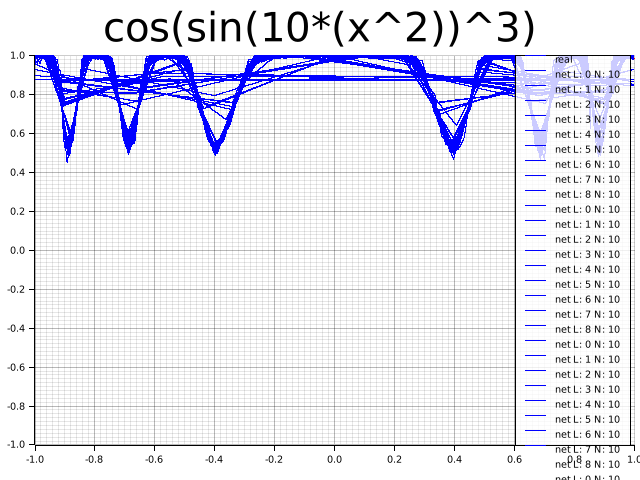
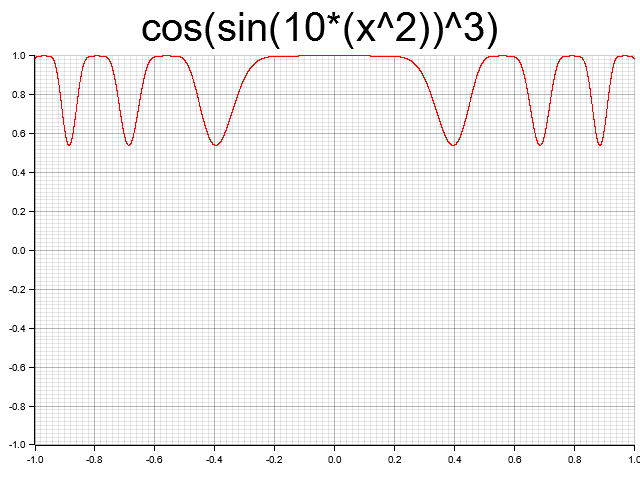
why does evo suck

diff --git a/deep_ai/src/normal_nets.rs b/deep_ai/src/normal_nets.rs
@@ -69,8 +69,16 @@ pub fn RunMNISTConvNet() {
 
 }
 
+#[test]
+pub fn mutate_test() {
+    let b = Tensor::of_slice(&[5., 5., 5., 5.]);
+    mutate_tensor(&b).print();
+}
+
 pub fn mutate_tensor(inp: &Tensor) -> Tensor {
-    inp.rand_like().multiply_scalar(0.2).f_add_scalar(0.9).unwrap()
+    let range = 0.02;
+    let sub = 1.0 - (range / 2.0);
+    inp.multiply(&inp.rand_like().multiply_scalar(range).f_add_scalar(sub).unwrap())
 }
 pub fn mutate_linear(copy_from: &nn::Linear, to_mutate: &mut nn::Linear) {
     if let Some(bs) = &copy_from.bs {
@@ -82,12 +90,12 @@ pub fn mutate_linear(copy_from: &nn::Linear, to_mutate: &mut nn::Linear) {
 
 #[derive(Debug)]
 pub struct LongNet {
-    hidden_linears: Vec<nn::Linear>,
-    in_layer: nn::Linear,
-    out_layer: nn::Linear,
-    in_size: i64,
-    out_size: i64,
-    hidden_layer_node_count: i64,
+    pub hidden_linears: Vec<nn::Linear>,
+    pub in_layer: nn::Linear,
+    pub out_layer: nn::Linear,
+    pub in_size: i64,
+    pub out_size: i64,
+    pub hidden_layer_node_count: i64,
 }
 impl LongNet {
     pub fn new(vs: &nn::Path, hidden_layers_count: usize, hidden_layer_dim: i64, in_dim :i64, out_dim: i64) -> LongNet {
@@ -203,7 +211,7 @@ pub fn get_net_accuracy_inner(net: &dyn ModuleT, x: &Tensor, true_y: &Tensor, ba
         sum_accuracy += get_accuracy_tensors(&y_out, &ys);
         sample_count += size;
     }
-    println!("Sum acc: {} Sample Count: {}", sum_accuracy,sample_count);
+    //println!("Sum acc: {} Sample Count: {}", sum_accuracy,sample_count);
     (1. - (sum_accuracy / sample_count)).abs()
 }
 
@@ -230,6 +238,12 @@ fn test_get_net_accuracy() {
         &Tensor::of_slice(&[1,2,3,4,5, 6]),
         &Tensor::of_slice(&[1,4,6,8,5, 6])
     ) / 6., 0.25);
+}
+
+
+#[test]
+pub fn test_run_cos_net() {
+    run_net_on_cos_func();
 }
 
 
@@ -289,8 +303,8 @@ pub fn run_net_on_cos_func() {
     // and why is the graph totally fucked
 
     let vs = nn::VarStore::new(Device::cuda_if_available());
-    for _ in 0..10 {
-        for layer_count in 0..9 {
+    for _ in 0..1 {
+        for layer_count in 8..9 {
             let hidden_layers_count = layer_count;
             let hidden_layer_neurons = 10;
             
@@ -310,10 +324,11 @@ pub fn run_net_on_cos_func() {
                     //println!("xs: {:#?}", batch_xs.size());
                     let loss = net.forward_t(&batch_xs, true);
                     let loss = loss.mse_loss(&batch_ys, tch::Reduction::Mean);
-                    //loss.print();
+                    loss.print();
+                    break;
                     opt.backward_step(&loss);
                 }
-                
+                break;
                 test_accuracy = get_net_accuracy(&net, &x, &y, batch_size);
                 // println!("epoch: {:4} test acc: {:5.2}%", epoch, 100. * test_accuracy,);
                 if test_accuracy > 0.99 {
@@ -419,7 +434,7 @@ pub fn run_net_on_cos_func_evolution() {
     let vs = nn::VarStore::new(Device::cuda_if_available());
     for _ in 0..1 {
         for layer_count in 0..1 {
-            let hidden_layers_count = 7;
+            let hidden_layers_count = 8;
             let hidden_layer_neurons = 10;
             
             let mut net = LongNet::new(&vs.root(), hidden_layers_count, hidden_layer_neurons, 1, 1);
@@ -431,36 +446,51 @@ pub fn run_net_on_cos_func_evolution() {
             let mut epochs_occured = 0;
             let mut test_accuracy = 0.;
 
-            let pop_count = 10000;
+            let pop_count = 1000;
 
             let mut prev_loss = f64::MAX;
+            let mut first_loss = true;
             for _ in 1..epochs+1 {
                 epochs_occured += 1;
                 let mut data = Iter2::new(&x,&y, batch_size);
                 let data = data.to_device(Device::cuda_if_available());
+
+                //let mut prev_loss = f64::MAX; // Always force change to force net to get outta local minima
                 for (batch_xs, batch_ys) in data.shuffle() {
                     // for pop count-> mutate net.
                     // if new net is better -> replace net
+                    let mut best_net = None;
                     for _ in 0..pop_count {
                         let new_net = net.mutate(&vs.root());
                         let loss = new_net.forward_t(&batch_xs, false);
-                        let loss = loss.mse_loss(&batch_ys, tch::Reduction::Mean).sum(tch::Kind::Double).double_value(&[0]);
+                        let loss = loss.mse_loss(&batch_ys, tch::Reduction::Mean);
+                        // loss.print();
+                        let loss = Vec::<f64>::from(loss.sum(tch::Kind::Double))[0];
+                        if first_loss {
+                            println!("first loss: {:#?}", loss);
+                            first_loss = false;
+                        }
                         if loss < prev_loss {
                             prev_loss = loss;
-                            net = new_net;
+                            best_net = Some(new_net);
+                            let net = best_net.unwrap();
                         }
                     }
-                    
+                    //let net = best_net.unwrap();
                     break;
                 }
-                
-                test_accuracy = get_net_accuracy(&net, &x, &y, batch_size);
-                // println!("epoch: {:4} test acc: {:5.2}%", epoch, 100. * test_accuracy,);
-                if test_accuracy > 0.99 {
-                    break;
-                }
+                println!("epoch: {:#?} loss: {:#?}", epochs_occured, prev_loss);
+                // test_accuracy = get_net_accuracy(&net, &x, &y, batch_size);
+                // // println!("epoch: {:4} test acc: {:5.2}%", epoch, 100. * test_accuracy,);
+                // if test_accuracy > 0.99 {
+                //     break;
+                // }
             }
-    
+            test_accuracy = get_net_accuracy(&net, &x, &y, batch_size);
+            // println!("epoch: {:4} test acc: {:5.2}%", epoch, 100. * test_accuracy,);
+            if test_accuracy > 0.99 {
+                break;
+            }
             println!("batch_size: {} epochs {} LayerCount: {}, Nuerons per layer: {} accuracy final: {}", batch_size, epochs_occured, hidden_layers_count + 2, hidden_layer_neurons, test_accuracy);
     
             let mut data = Iter2::new(&x,&y,256);
